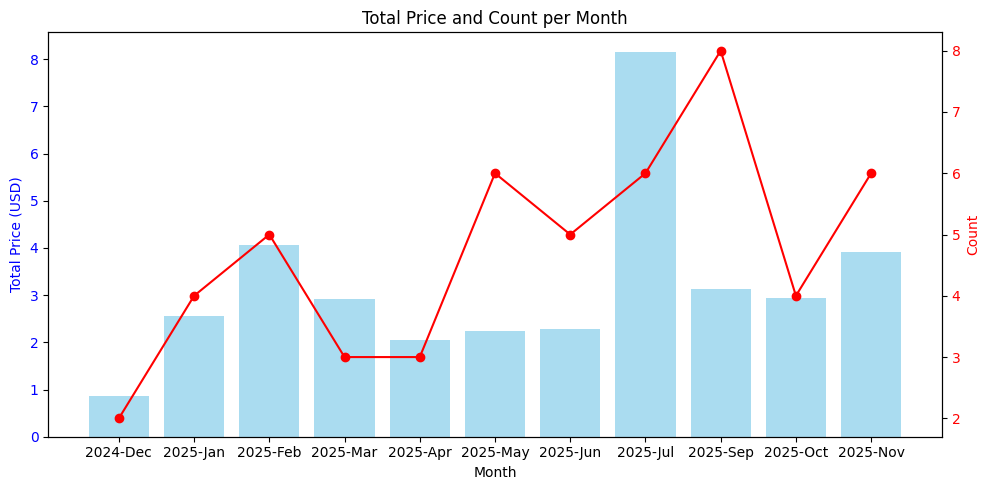
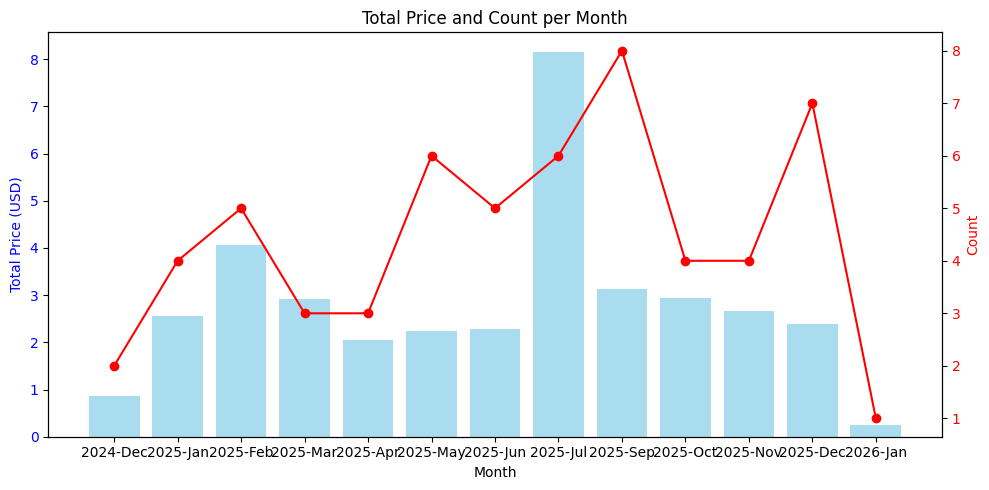
update: `December 2025 - January 2026`

diff --git a/market_stats.py b/market_stats.py
@@ -6,8 +6,6 @@ from typing import List, Dict, Tuple, defaultdict
 from enum import StrEnum
 from dataclasses import dataclass
 from datetime import datetime
-from itertools import groupby
-from operator import attrgetter
 from json import load
 
 FILE_NAME = os.path.join(os.path.dirname(__file__), "steam_history_market.json")
@@ -126,12 +124,10 @@ def plot_total_price_by_month(total_price_by_month: Dict[str, float]):
 
 def plot_total_price_by_name(total_price: float, total_price_by_name: Dict[str, Tuple[float, int]]) -> None:
     names = list(total_price_by_name.keys())
-    prices = [v[0] for v in total_price_by_name.values()]
     counts = [v[1] for v in total_price_by_name.values()]
 
     fig, ax1 = plt.subplots(figsize=(10, 6))
 
-    bars = ax1.bar(names, prices, color='skyblue', alpha=0.7, label='Total Price')
     ax1.set_ylabel('Total Price (USD)', color='blue')
     ax1.set_xlabel('Item Name')
     ax1.tick_params(axis='y', labelcolor='blue')
@@ -142,7 +138,7 @@ def plot_total_price_by_name(total_price: float, total_price_by_name: Dict[str, 
     ax2.set_ylabel('Count', color='red')
     ax2.tick_params(axis='y', labelcolor='red')
 
-    plt.title(f'Total Price and Count per Item')
+    plt.title('Total Price and Count per Item')
     plt.text(0.95, 0.95, f'Total Price: {total_price:.2f} {Currency.USD}', 
              horizontalalignment='right', verticalalignment='top', 
              transform=ax1.transAxes, fontsize=12, bbox=dict(facecolor='white', alpha=0.5))

diff --git a/README.md b/README.md
@@ -72,24 +72,24 @@ def print_total_price(total_price: float, total_price_by_name: Dict[str, float])
 ## Результат
 
 ```bash
-------------------- TOTAL -------------------
----------------------------------------------
-TOTAL PRICE     |    34.60 USD
----------------------------------------------
+------------------- TOTAL ----------------------------
+------------------------------------------------------
+TOTAL PRICE     |    35.98 USD
+------------------------------------------------------
 
 ITEM NAME       |      PRICE
----------------------------------------------
+------------------------------------------------------
 Dreams & Nightmares Case  |       8.90 USD | 5 кол-во
-Kilowatt Case             |       7.62 USD | 12 кол-во
+Kilowatt Case             |       8.17 USD | 14 кол-во
 M4A1-S | Rose Hex         |       4.53 USD | 1 кол-во
-Revolution Case           |       3.61 USD | 7 кол-во
-Recoil Case               |       3.14 USD | 10 кол-во
+Revolution Case           |       4.20 USD | 9 кол-во
+Recoil Case               |       3.83 USD | 12 кол-во
 Fracture Case             |       3.10 USD | 9 кол-во
-Sealed Genesis Terminal   |       2.96 USD | 4 кол-во
+Sealed Genesis Terminal   |       2.51 USD | 4 кол-во
 Galil AR | Acid Dart      |       0.30 USD | 1 кол-во
 XM1014 | Gum Wall Camo    |       0.29 USD | 1 кол-во
 USP-S | Forest Leaves     |       0.15 USD | 1 кол-во
----------------------------------------------
+-------------------------------------------------------
 
 ```
 ## График
@@ -149,7 +149,10 @@ MONTH      |          PRICE | COUNT
 2025-Jul   |       8.16 USD |     6 кол-во
 2025-Sep   |       3.12 USD |     8 кол-во
 2025-Oct   |       2.94 USD |     4 кол-во
-2025-Nov   |       3.92 USD |     6 кол-во
+2025-Nov   |       2.66 USD |     4 кол-во
+2025-Dec   |       2.39 USD |     7 кол-во
+2026-Jan   |       0.25 USD |     1 кол-во
+---------------------------------------------
 
 ```
 
